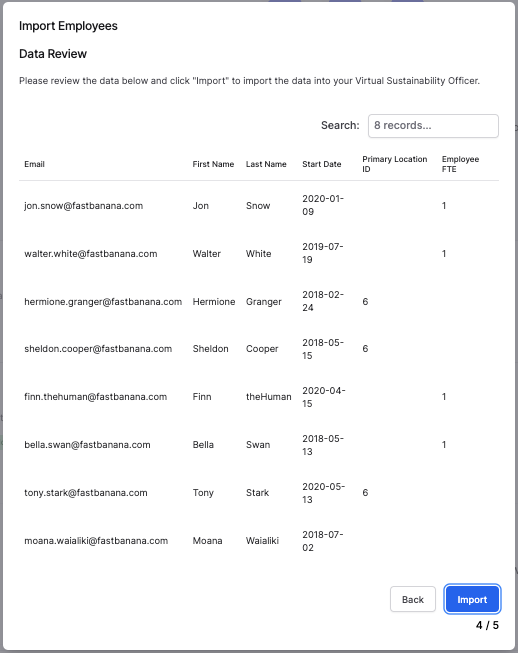
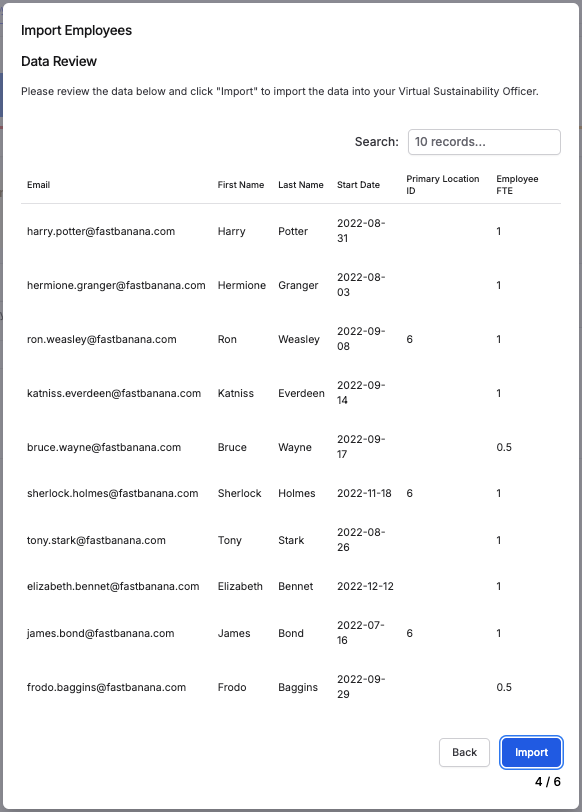
Content: Updated Employee Upload Guide
New guide for the employee onboarding changes

diff --git a/guide/employees.html b/guide/employees.html
@@ -64,7 +64,7 @@
     <header class="header text-white bg-dark pt-9 pb-5" style="background-image: linear-gradient(-20deg, #2b5876 0%, #4e4376 100%);">
       <!-- <header class="header text-white" style="background-image: url(../assets/img/video/tree.jpg)" data-overlay="7"> -->
       <div class="container">
-        <h3 id="top">Onboarding Guide: Human Resources</h3>
+        <h3 id="top">Onboarding Guide: Manage Employees</h3>
       </div>
     </header><!-- /.header -->
 
@@ -88,13 +88,13 @@
             <article>
 
               <p id = "getting-started">
-                You have been selected as the Human Resource data holder. As such, we need you to complete the wizard for Employees in the Reporting Period.
+                You have been selected as the data holder to Manage Employee. As such, we need you to upload your Employee List for the Reporting Period, and keep it updated as employees join or leave the company.
                 <p>If you think you have been incorrectly added into this role please contact your Admin or the Alectro team.</p>
 
-                <p>You'll see the following task in your to-do list here: <a href="https://vso.alectro.io/todo-list" target="_blank">vso.alectro.io/todo-list</a></p>
+                <p>You'll see the following task in your to-do list here: <a href="https://vso.alectro.io/todo-list" target="_blank">vso.alectro.io/todo-list</a>. You can access the Manage Employees section by clicking on the task item, or by clicking the dedicated Manage Employees button.</p>
 
                 <div class="text-center my-6">
-                  <img class="rounded-md" src="../assets/img/guide/hr/guide-hr-01.png" alt="...">
+                  <img class="rounded-md" src="../assets/img/guide/hr/guide-hr-01-2024.png" alt="...">
                   <figcaption class="figure-caption text-center"></figcaption>
                 </div>
 
@@ -104,8 +104,8 @@
               <hr class="my-8">
 
               <h3 id="finding-data">Getting the Data You Need</h3>
-                  <p>Most of the required information is available within your own systems, making it easy to complete the template.</p>
-                  <p>To create user profiles, we require an employee list covering the analysis period. This list should contain employee names, emails, start dates, office locations, and their employment status (full-time or part-time).</p>
+                  <p>Most of the required information is available within your own systems, making it easy to complete the template and upload the data.</p>
+                  <p>To create a user we require an employee list covering the analysis period. This list should contain employee names, emails, start dates, office locations, and their employment status (full-time or part-time).</p>
                   <p>For instance, if the analysis period is from <code>01/01/2023</code> to <code>31/12/2023</code>, please include all current employees who have worked at the company from <code>01/01/2023</code> until today.</p>
                   <p>We won't be reaching out to individuals who are no longer with the company.</p>
 
@@ -118,19 +118,26 @@
 
               <h3 id="template">Completing the Data Upload</h3>
 
-              <p>When you click to begin your task, you'll see the Employees onboarding panel.</p>
+              <p>When you click to begin your task, you'll see the <b>Manage Employees</b> page.</p>
 
                 <div class="text-center my-6">
-                  <img class="rounded-md" src="../assets/img/guide/hr/guide-hr-02.png" alt="...">
+                  <img class="rounded-md" src="../assets/img/guide/hr/guide-hr-02-2024.png" alt="...">
                   <figcaption class="figure-caption text-center"></figcaption>
                 </div>
 
                 <h4 id="">Step 1: Start the Import Process</h4>
-                <p>You have two options:</p>
+
+
+                <p>To begin, click the <span class="badge badge-primary">+ Add Employees</span> button. This will give you the option to add a single user, or to Bulk Import Employees</p>
                 <ol>
                   <li>Add Single User: use this option to add a single user directly to the platfrom (<a href="#single-upload">Add single user →</a>)</li>
-                  <li>Start Import Wizard: use this option to bulk upload users (<a href="#bulk-import">Start Import Wizard →</a>)</li>
+                  <li>Bulk Import Employees: use this option to bulk upload users (<a href="#bulk-import">Start Import Wizard →</a>)</li>
                 </ol>
+
+                <div class="text-center my-6">
+                  <img class="rounded-md" src="../assets/img/guide/hr/guide-hr-03-2024.png" alt="...">
+                  <figcaption class="figure-caption text-center"></figcaption>
+                </div>
 
                 <p>Regardless of which option you select, you'll still be entering the same data:
 
@@ -156,30 +163,21 @@
 
                 <h5 id="single-upload">Add Single User</h5>
 
-                <div class="text-center my-6">
-                  <img class="rounded-md" src="../assets/img/guide/hr/guide-hr-03-a.png" alt="...">
-                  <figcaption class="figure-caption text-center"></figcaption>
-                </div>
-
                 <p>Adding a single user is straightforward, as you can just complete the modal with the user details.
-                <p>The user will recieve a welcome email once you click 'Add User' and you will be able to see them by toggling the 'Show Completed' button in the table below.
+                <p>The user will recieve a welcome email once you click <span class="badge badge-secondary">Add User</span> button.
 
                 <div class="text-center my-6">
                     <img class="rounded-md" src="../assets/img/guide/hr/guide-hr-04.png" alt="...">
                     <figcaption class="figure-caption text-center"></figcaption>
                 </div>
 
-                <h5 id="bulk-import">Start Import Wizard</h5>
+                <h5 id="bulk-import">Bulk Import Employees</h5>
 
-                <p>Use this option to bulk upload users in one go
+                <p>Use this option to bulk upload users in one go.
 
-                <div class="text-center my-6">
-                  <img class="rounded-md" src="../assets/img/guide/hr/guide-hr-03-b.png" alt="...">
-                  <figcaption class="figure-caption text-center"></figcaption>
-                </div>
 
                 <h6>Stage 1: Pre-import setup</h6>
-                <p>You can download the template by clicking the 'Download Template' button, or use your own excel template.
+                <p>You can download the template by clicking the <span class="badge badge-light">Download Template</span> button, or use your own excel template.
                 <p>Please note the following things before going any further:
                   <ol>
                       <li>You can upload .csv or .xlsx file</li>
@@ -195,7 +193,7 @@
                 </div>
 
                 <h6>Stage 2: Upload your file</h6>
-                <p>Once you have completed the template you can upload the file by selecting it here and clicking 'Next'.
+                <p>Once you have completed the template you can upload the file.
 
 
                 <div class="text-center my-6">
@@ -204,7 +202,7 @@
                 </div>
 
                 <h6 id="map-header-columns">Stage 3: Map header columns</h6>
-                <p>Match the column types to the correct header columns in your file. Once you have mapped all the columns, click the 'Next' and we will validate your data.</p>
+                <p>Match the column types to the correct header columns in your file. Once you have mapped all the columns, click the <span class="badge badge-primary">Next</span> and we will validate your data.</p>
                 <p>If you deselect Primary Location ID and/or Employee FTE then these columns will be ignored in the upload step:
                     <ul>
                         <li>Primary Location ID: Deselecting this column will mean you have to map each employee to a location at a later stage</li>
@@ -219,7 +217,7 @@
                 </div>
 
                 <h6>Stage 4: Data Review</h6>
-                <p>Please review the data below and click 'Import' to import the data into your Virtual Sustainability Officer® when you're ready.</p>
+                <p>Please review the data below and click <span class="badge badge-primary">Import</span> to upload the data into your Virtual Sustainability Officer® when you're ready.</p>
 
                 <div class="text-center my-6">
                   <img class="rounded-md" src="../assets/img/guide/hr/guide-hr-05-d.png" alt="...">
@@ -233,17 +231,37 @@
                         <li>Total Duplicates: This will tell you how may email addresses already existed in the platform, so haven't been created. You will see a list of them in the Duplicates table.</li>
                     </ul>
 
-                <p>When you're happy, click Finish to exit the import wizard.</p>
-
                 <div class="text-center my-6">
                   <img class="rounded-md" src="../assets/img/guide/hr/guide-hr-05-e.png" alt="...">
                   <figcaption class="figure-caption text-center"></figcaption>
                 </div>
 
 
+                <h6>Stage 6: Confirm and Invite Employees</h6>
+                    <p>You have two options to complete the process:
+                        <ul>
+                            <li>You can select all the rows, and then click to <span class="badge badge-success">Verify Employees</span> then <span class="badge badge-primary">Send Welcome Email</span> to invite employees immediately.</li>
+                            <li>Or you can click <span class="badge badge-primary">to send these emails later, click here</span> to invite employees at a later stage</li>
+                        </ul>
+
+                <p>For more details on either option, see the section below on Verfiying and Inviting Users</p>
+
+                <div class="text-center my-6">
+                  <img class="rounded-md" src="../assets/img/guide/hr/guide-hr-05-2024-f.png" alt="...">
+                  <figcaption class="figure-caption text-center"></figcaption>
+                </div>
+
+
                 <h4 id="">Step 2: Confirm and Invite Users</h4>
 
-                <p>Now you've completed the initial upload, you can tweak the data for each individual employee.</p>
+                <p>Once employee details have been uploaded to the platform, they need to be sent their Welcome Email. If you've chosen to delay this, you can do it at any stage from the Manage Employees page.</p>
+                <p>Any employees who haven't been sent their email yet will be shown in the Errors tab. </p>
+
+                <div class="text-center my-6">
+                  <img class="rounded-md" src="../assets/img/guide/hr/guide-hr-06-2024.png" alt="...">
+                  <figcaption class="figure-caption text-center"></figcaption>
+                </div>
+
                 <p>Each user must be assigned a Primary Location, and have the rest of their data checked.</p>
 
                 <div class="text-center my-6">
@@ -251,21 +269,21 @@
                   <figcaption class="figure-caption text-center"></figcaption>
                 </div>
 
-                <p>Once you've made your edits, check the box on the right hand side, and click to 'Verify Employees'.
+                <p>Once you've made your edits, check the box on the right hand side, and click to <span class="badge badge-success">Verify Employees</span>.
 
                 <div class="text-center my-6">
                   <img class="rounded-md" src="../assets/img/guide/hr/guide-hr-06-b.png" alt="...">
                   <figcaption class="figure-caption text-center"></figcaption>
                 </div>
 
-                <p>These employees are now ready to be invited to the Virtual Sustainability Officer®. Select the users you would like to invite, and click 'Send Welcome Email'.</p>
+                <p>These employees are now ready to be invited to the Virtual Sustainability Officer®. Select the users you would like to invite, and click <span class="badge badge-primary">Send Welcome Email</span></p>
 
                 <div class="text-center my-6">
                   <img class="rounded-md" src="../assets/img/guide/hr/guide-hr-06-c.png" alt="...">
                   <figcaption class="figure-caption text-center"></figcaption>
                 </div>
 
-                <p>As a final step, you will be asked to confirm this action. Please note, this cannot be undone so once you click 'Send Welcome Email' the user will have access to the platform.</p>
+                <p>As a final step, you will be asked to confirm this action. Please note, this cannot be undone so once you click <span class="badge badge-primary">Send Welcome Email</span> the user will have access to the platform.</p>
 
                 <p>You can also choose to Suppress Email (adding a user without sending them the welcome email). However, we advise against using this option unless explicitly instructed by the Alectro team. While there are various valid reasons for doing so, if these haven't been discussed with you, please refrain from selecting any of these options. If a user is selected in this step it will set their email preferences to not recieve any mail in the future either.</p>
 
@@ -282,30 +300,25 @@
                   <figcaption class="figure-caption text-center"></figcaption>
                 </div>
 
-                <p>The import table will now be empty, and you can view completed employees by clicking the 'Show Completed' toggle, with successful imports being shown by the <span class="badge badge-success">Added</span> tag</p>
+                <p>The import table will now be empty, and you can view completed employees by clicking the 'Employee List' tab.
 
+                  <div class="text-center my-6">
+                    <img class="rounded-md" src="../assets/img/guide/hr/guide-hr-06-f.png" alt="...">
+                    <figcaption class="figure-caption text-center"></figcaption>
+                  </div>
 
-                <div class="text-center my-6">
-                  <img class="rounded-md" src="../assets/img/guide/hr/guide-hr-06-f.png" alt="...">
-                  <figcaption class="figure-caption text-center"></figcaption>
-                </div>
-
-                <div class="text-center my-6">
-                  <img class="rounded-md" src="../assets/img/guide/hr/guide-hr-06-g.png" alt="...">
-                  <figcaption class="figure-caption text-center"></figcaption>
-                </div>
 
                 <h4 id="">Step 3: Mark as Complete</h4>
 
-                <p>Once you've added the users, you can mark this whole section as complete by clicking Mark as Complete</p>
+                <p>Once you've added the users for the reporting year, you can mark this whole section as complete by clicking <span class="badge badge-light">Mark as Complete</span></p>
 
                 <div class="text-center my-6">
-                  <img class="rounded-md" src="../assets/img/guide/hr/guide-hr-07-a.png" alt="...">
+                  <img class="rounded-md" src="../assets/img/guide/hr/guide-hr-07-2024-a.png" alt="...">
                   <figcaption class="figure-caption text-center"></figcaption>
                 </div>
 
                 <div class="text-center my-6">
-                  <img class="rounded-md" src="../assets/img/guide/hr/guide-hr-07-b.png" alt="...">
+                  <img class="rounded-md" src="../assets/img/guide/hr/guide-hr-07-2024-b.png" alt="...">
                   <figcaption class="figure-caption text-center"></figcaption>
                 </div>
 
@@ -340,6 +353,29 @@
                 </div>
 
                 <p>Once you have corrected your errors you can re-upload your data to  <a href="#map-header-columns">Stage 3: Map Header Columns</a>.</p>
+
+                <hr class="my-8">
+
+                <h3 id="status">Data Status's</h3>
+                <b>Before Sending Welcome Email</b> (these will be shown in the Errors tab)
+                    <ul>
+                          <li><span class="badge badge-pale badge-danger">Unverified</span>: User has not been verified yet and needs to be actioned using the 'Verify Employees' button to be able to send a welcome email.</li>
+                          <li><span class="badge badge-pale  badge-warning">Ready To Send</span>: User has been verified and is ready to send a welcome email.</li>
+                          <li><span class="badge badge-pale badge-info">Processing</span>: User's welcome email is being sent.</li>
+                          <li><span class="badge badge-pale badge-danger">Bounced</span>: User's welcome email has bounced. Please fix the email and submit to re-send the employee's welcome email.</li>
+                    </ul>
+                <b>Employee List</b>
+                <p>During an Active year, only <span class="badge badge-pale badge-primary">Active Year</span> and <span class="badge badge-pale badge-danger">Onboarding Incomplete</span> will be shown. During an Under-Review period, all of the following will be shown:
+                  <ul>
+                      <li><span class="badge badge-pale badge-success">Confirmed</span>: User has verified their information for this reporting period.</li>
+                      <li><span class="badge badge-pale badge-warning">Partly Confirmed</span>: User hasn't completed data confirmation for this reporting period.</li>
+                      <li><span class="badge badge-pale badge-danger">Unconfirmed</span>: User onboarded in a prior year but must confirm their data for this period.</li>
+                      <li><span class="badge badge-pale badge-danger">Onboarding Incomplete</span>: User has never logged in or completed onboarding.</li>
+                      <li><span class="badge badge-pale badge-info">New Employee</span>: User finished onboarding but was inactive this reporting period.</li>
+                      <li><span class="badge badge-pale badge-primary">Active Year</span>: No action needed, currently in an active reporting period.</li>
+                    </ul>
+
+
 
                 <hr class="my-8">
 
@@ -400,6 +436,7 @@
                     <a class="nav-link ml-3" href="#single-upload">Add Single User</a>
                     <a class="nav-link ml-3" href="#bulk-import">Start Import Wizard</a>
                 <a class="nav-link" href="#errors">Common Data Errors</a>
+                <a class="nav-link" href="#status">Data Status'</a>
                 <a class="nav-link" href="#bounced-emails">Fixing Bounced Emails</a>
                 <a class="nav-link" href="#faq">FAQ</a>
               </nav>
@@ -457,7 +494,7 @@
           </div>
 
           <div class="col-md-3 text-center text-md-left">
-            <small>© 2023 Alectro Limited. All rights reserved.</small>
+            <small>© 2024 Alectro Limited. All rights reserved.</small>
           </div>
 
           <div class="col-md-9 text-center text-md-right">
